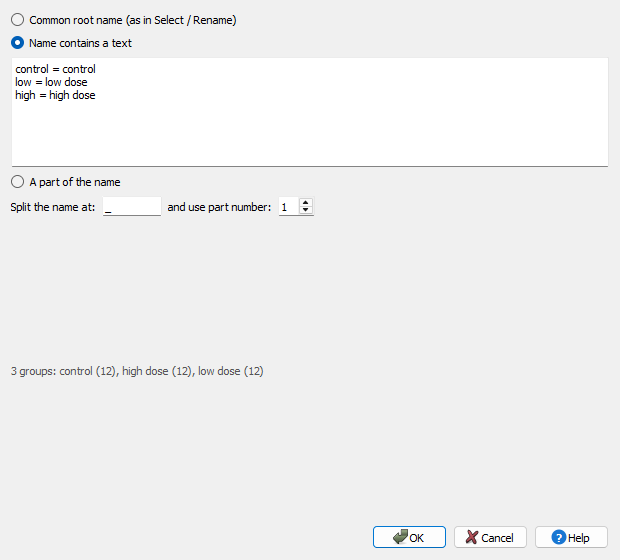
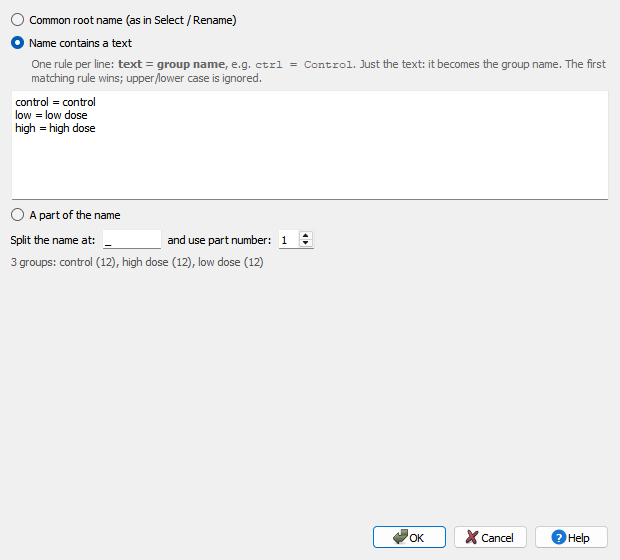
Buttons under the menu bar: text no longer lost in a wide window; nightly build fixed; help pictures for 1.6.0
The buttons under the menu bar show their text when there is room, and only their icons
when the window is too narrow (Analysis first, then Processing, then the main buttons).

- Fixed: after making the window much wider (e.g. maximizing it), the buttons could keep
  showing only their icons although there was room for the text. A second check, made a
  moment after every change of the window size, looked at the buttons before Windows had
  moved them to their new places, saw the old narrow arrangement and took the text away.
  Now this check waits until the buttons are arranged for the new width.
- The automatic build on GitHub (nightly build) stopped at a test of these buttons. The
  test made the window 2600 pixels wide and expected text on all buttons; the build
  machine has a small screen, the window stayed narrower and the program rightly showed
  icons only. The two tests of the buttons now measure how much room the buttons with text
  need and check against the width the window really gets: no button is hidden behind
  the ">>" arrow, the text disappears group by group in the right order, and all buttons
  show text when there is room. They work on any screen size.
- Group Statistics > Groups from spectrum names: when the window is made taller, the extra
  space now goes to the bottom, above OK / Cancel. Before, it was spread between the parts
  of the window, so the grey line explaining the rules stood in a large empty gap.
[…]

diff --git a/tests/test_toolbar_tools.py b/tests/test_toolbar_tools.py
@@ -139,24 +139,33 @@ def test_groups_can_be_hidden_and_the_text_left_out(mc, tmp_path):
 
 def test_automatic_text_leaves_it_out_group_by_group_when_narrow(mc):
     """No button behind the "»": in a narrow window Analysis shows only icons
-    first, then Processing, ... - also when the measured widths were wrong."""
+    first, then Processing, ... - also when the measured widths were wrong.
+    (Checked against the width the window really gets: on a small screen,
+    e.g. the GitHub build machine, a window cannot always be made 2600 wide.)"""
     from PyQt5.QtCore import Qt
+    from PyQt5.QtTest import QTest
+    from src.views import toolbars
     v = mc.view
     v.show()
-    styles = {}
-    for width in (2600, 1150, 700):
+    bars = (v.analysisToolBar, v.processingToolBar, v.mainToolBar)
+    QTest.qWait(200)
+    need = sum(toolbars._width(v, tb, True) for tb in bars)      # all with text
+
+    def state(width):
         v.resize(width, 800)
-        app.processEvents()
-        styles[width] = [tb.toolButtonStyle() == Qt.ToolButtonTextBesideIcon
-                         for tb in (v.mainToolBar, v.processingToolBar, v.analysisToolBar)]
-    assert styles[2600] == [True, True, True]                     # room for all the text
-    assert styles[1150][2] is False                              # Analysis first
-    assert styles[700] == [False, False, False] or styles[700][:2] != [True, True]
-    v.resize(2600, 800)
-    from PyQt5.QtTest import QTest
-    QTest.qWait(400)
-    assert all(tb.toolButtonStyle() == Qt.ToolButtonTextBesideIcon
-               for tb in (v.mainToolBar, v.processingToolBar, v.analysisToolBar))
+        QTest.qWait(400)                                         # (also the check after)
+        text = [tb.toolButtonStyle() == Qt.ToolButtonTextBesideIcon for tb in bars]
+        assert all(tb.width() + 2 >= tb.sizeHint().width() for tb in bars), width  # no »
+        # the text goes group by group: Analysis first, then Processing, then Main
+        assert text in ([True, True, True], [False, True, True], [False, False, True],
+                        [False, False, False]), (width, text)
+        return text
+    for width in (need + 60, 1150, 700, need + 60):
+        text = state(width)
+        if v.width() >= need + 40:                               # room for all the text
+            assert text == [True, True, True], (width, v.width(), need)
+        if v.width() < need - 20:                                # not for all of it
+            assert text[0] is False, (width, v.width(), need)
 
 
 def test_a_group_that_still_overflows_loses_its_text(mc):
@@ -173,7 +182,10 @@ def test_a_group_that_still_overflows_loses_its_text(mc):
     QTest.qWait(600)
     bars = (v.mainToolBar, v.processingToolBar, v.analysisToolBar)
     assert all(tb.width() + 2 >= tb.sizeHint().width() for tb in bars)   # nothing behind »
-    assert v.analysisToolBar.toolButtonStyle() == Qt.ToolButtonIconOnly
+    from src.views import toolbars
+    need = sum(toolbars._width(v, tb, True) for tb in bars)      # (measured right again)
+    if v.width() < need - 20:                                    # not room for all the text
+        assert v.analysisToolBar.toolButtonStyle() == Qt.ToolButtonIconOnly
 
 
 def test_help_comes_right_after_save(mc):

diff --git a/src/views/dialogs/visualization_analysis/group_statistics_dialog.py b/src/views/dialogs/visualization_analysis/group_statistics_dialog.py
@@ -24,7 +24,7 @@ from PyQt5.QtGui import QBrush, QColor
 from PyQt5.QtWidgets import (
     QAbstractItemView, QApplication, QButtonGroup, QCheckBox, QComboBox, QDialog, QDialogButtonBox, QDoubleSpinBox,
     QFileDialog, QFormLayout, QGridLayout, QGroupBox, QHBoxLayout, QHeaderView, QInputDialog, QLabel,
-    QLineEdit, QMessageBox, QPlainTextEdit, QPushButton, QRadioButton, QSpinBox, QSplitter,
+    QLineEdit, QMessageBox, QPlainTextEdit, QPushButton, QRadioButton, QSizePolicy, QSpinBox, QSplitter,
     QTableWidget, QTableWidgetItem, QTabWidget, QTextBrowser, QVBoxLayout, QWidget)
 
 from src.modules.utils.app_logger import get_logger
@@ -372,6 +372,7 @@ class NamesToGroupsDialog(QDialog):
             "Just the text: it becomes the group name. The first matching rule wins; "
             "upper/lower case is ignored.")
         self.rules_hint.setWordWrap(True)
+        self.rules_hint.setSizePolicy(QSizePolicy.Preferred, QSizePolicy.Maximum)
         self.rules_hint.setStyleSheet("color:#666; margin-left:18px;")
         layout.addWidget(self.rules_hint)
         self.rules_edit = QPlainTextEdit()
@@ -411,6 +412,7 @@ class NamesToGroupsDialog(QDialog):
         buttons.addButton(help_button, QDialogButtonBox.HelpRole)
         buttons.accepted.connect(self.accept)
         buttons.rejected.connect(self.reject)
+        layout.addStretch(1)                       # more height: room below, not gaps
         layout.addWidget(buttons)
         self.resize(480, 420)
         self._update_preview()

diff --git a/src/views/toolbars.py b/src/views/toolbars.py
@@ -480,7 +480,15 @@ def _no_overflow(view, rounds=3):
         bars = [view.analysisToolBar, view.processingToolBar, view.mainToolBar]
     except RuntimeError:                     # the window is gone
         return
-    if not any(_overflowing(tb) for tb in bars if not tb.isHidden()):
+    shown = [tb for tb in bars if not tb.isHidden()]
+    if not any(_overflowing(tb) for tb in shown):
+        return
+    # a real lack of room: the tool bars already fill the whole width. If they
+    # do not, they are not laid out for the new size yet - look again later
+    # (dropping the text now would take it away in a wide window)
+    if sum(tb.width() for tb in shown) < view.width() - 40:
+        if rounds > 1:
+            _check_later(view, rounds - 1)
         return
     view.__dict__.pop('_toolbar_widths', None)
     for tb in bars:
